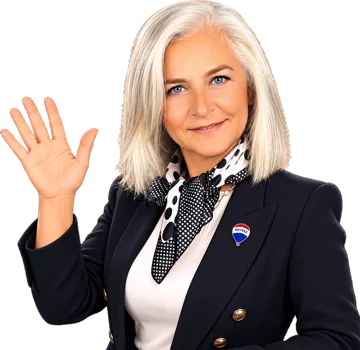
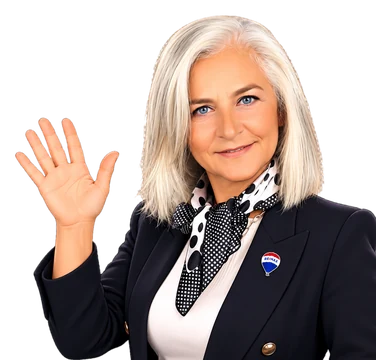
Ofis Takvimi: akıcı ay geçişi, hızlı resimler, eşit resim boyları (#230)
* Ofis Takvimi: aylar arası anında geçiş (önceki/sonraki aylar arkada çekilir), resimler baştan indirilir ve küçüldü, yükleme çubuğu

Claude-Session: https://claude.ai/code/session_014SKq8WkohqfPMp3wdCpcDB

* Ofis Takvimi: Orhan'ın yeni el sallayan resmi, herkesin resmi aynı yüz boyuna göre kesildi

Claude-Session: https://claude.ai/code/session_014SKq8WkohqfPMp3wdCpcDB

* Ofis Takvimi: resimler baş üstü hizasına ve aynı baş boyuna göre kesildi (Orhan büyüdü)

Claude-Session: https://claude.ai/code/session_014SKq8WkohqfPMp3wdCpcDB

---------

diff --git a/takvim.html b/takvim.html
@@ -191,6 +191,9 @@ body{padding-bottom:0}
 .arac .ekle span{font-size:20px!important}
 }
 @media(max-width:420px){header h1{font-size:19px}.sekme button{padding:7px 10px}.ay b{font-size:17px}}
+.yukbar{position:fixed;top:0;left:0;right:0;height:3px;z-index:60;opacity:0;transition:opacity .25s;pointer-events:none;background:linear-gradient(90deg,transparent,var(--mavi),transparent);background-size:40% 100%;background-repeat:no-repeat;animation:kay 1.1s linear infinite}
+.yukbar.on{opacity:1}
+@keyframes kay{from{background-position:-40% 0}to{background-position:140% 0}}
 .yukleniyor{text-align:center;color:var(--dim);padding:30px;font-size:14px}
 </style>
 </head>
@@ -204,6 +207,7 @@ body{padding-bottom:0}
   <button class="btn" id="girBtn">Giriş</button>
   <div class="hata" id="girisHata"></div>
 </div>
+<div class="yukbar" id="yukBar"></div>
 <div class="wrap" id="ana" hidden>
   <header hidden>
     <button class="avatar" id="avatar" title="Hesap">
@@ -276,7 +280,7 @@ const ilkAd = a => String(a||'').split(' ')[0];
 const anahtar = a => String(a||'').toLocaleLowerCase('tr').split(/\s+/)[0];
 
 let S = { gorunum: ls('ot_gorunum')||'ay', ay: (()=>{const d=new Date();return new Date(d.getFullYear(),d.getMonth(),1);})(),
-          secili: bugun(), olaylar: [], aralik:'', broker: false,
+          secili: bugun(), olaylar: [], kapsam: null, broker: false,
           oturum: ls('posta_oturum'), kim: ls('posta_kim'), ad: '' };
 
 /* ---- kim: Doğuş Posta ile aynı oturum (posta_oturum); bir kez girilir ---- */
@@ -318,8 +322,8 @@ $('girBtn').onclick=girisYap;
 $('pin').addEventListener('keydown',e=>{ if(e.key==='Enter') girisYap(); });
 $('cikisBtn').onclick=$('avatar').onclick=()=>{ if(confirm(`${benAd()} olarak girdin. Çıkış yapılsın mı?\n(Doğuş Posta'dan da çıkılır.)`)) cikis(); };
 function cikis(m){
-  ['posta_oturum','posta_kim','posta_hesap','ot_onbellek'].forEach(k=>{ try{ localStorage.removeItem(k); }catch(e){} });
-  S.oturum=''; S.kim=''; S.ad=''; S.broker=false; S.aralik=''; girisGoster(m);
+  ['posta_oturum','posta_kim','posta_hesap','ot_onbellek','ot_depo'].forEach(k=>{ try{ localStorage.removeItem(k); }catch(e){} });
+  S.oturum=''; S.kim=''; S.ad=''; S.broker=false; S.kapsam=null; S.olaylar=[]; girisGoster(m);
 }
 
 /* ---- veri ---- */
@@ -336,27 +340,41 @@ function gorunurAralik(){
   const son=new Date(bas); son.setDate(son.getDate()+41);
   return [ymd(bas), ymd(son)];
 }
-const OB='ot_onbellek'; let YUKLE_NO=0;
-function onbellekAl(k){ try{ const m=JSON.parse(ls(OB)||'{}'); return m[k]||null; }catch(e){ return null; } }
-function onbellekYaz(k,j){ try{ const m=JSON.parse(ls(OB)||'{}'); m[k]={t:Date.now(),olaylar:j.olaylar,broker:!!j.broker,ad:j.ad||''};
-  const ks=Object.keys(m).sort((x,y)=>m[y].t-m[x].t); ks.slice(4).forEach(x=>delete m[x]); ls(OB,JSON.stringify(m)); }catch(e){} }
+// Veri deposu: birkaç ayın etkinlikleri tek yerde, S.kapsam=[bas,son] hangi günleri kapsadığını tutar.
+// Sunucu (Apps Script) 3-5 sn sürüyor: depo telefonda saklanır, açılışta ve ay geçişlerinde anında çizilir,
+// gösterilen ayın öncesi/sonrası arkada çekilir (Umut 18 Eki: "çok bekletiyor", "aylar arası akıcı değil")
+const OB='ot_depo'; let YUKLE_NO=0, YUK=0; const BEKLEYEN={};
+function depoYukle(){ try{ const d=JSON.parse(ls(OB)||'null'); if(d && d.kim===(S.kim||'') && d.kapsam){ S.olaylar=d.olaylar||[]; S.kapsam=d.kapsam; S.broker=!!d.broker; if(d.ad) S.ad=d.ad; } }catch(e){} }
+function depoYaz(){ try{ ls(OB, JSON.stringify({kim:S.kim||'',olaylar:S.olaylar,kapsam:S.kapsam,broker:S.broker,ad:S.ad||''})); }catch(e){} }
+const kapsar=(b,e)=>!!S.kapsam && S.kapsam[0]<=b && S.kapsam[1]>=e;
+function ihtiyac(){ const [b,e]=gorunurAralik(), g=bugun(), s=gunEkle(g,14); return [b<g?b:g, e>s?e:s]; }
+function genis(){ const [b,e]=ihtiyac(); return [gunEkle(b,-63), gunEkle(e,63)]; }
+function yukGoster(d){ YUK=Math.max(0,YUK+d); $('yukBar').classList.toggle('on', YUK>0); }
+const gorunenImza=()=>{ const [b,e]=ihtiyac(); return JSON.stringify(S.olaylar.filter(o=>o.tarih>=b&&o.tarih<=e))+S.broker; };
+function getir(b,e){
+  const k=b+'_'+e; if (BEKLEYEN[k]) return BEKLEYEN[k];
+  yukGoster(1);
+  return BEKLEYEN[k]=api({islem:'liste', bas:b, bit:e}).then(j=>{
+    if (S.oturum && !j.ad){ cikis('Oturumun kapanmış, tekrar gir.'); throw new Error('OTURUM'); }
+    const ort=S.kapsam && !(e<S.kapsam[0] || b>S.kapsam[1]);
+    if (ort){ S.olaylar=S.olaylar.filter(o=>o.tarih<b||o.tarih>e).concat(j.olaylar).sort((x,y)=>x.tarih<y.tarih?-1:x.tarih>y.tarih?1:0);
+      S.kapsam=[b<S.kapsam[0]?b:S.kapsam[0], e>S.kapsam[1]?e:S.kapsam[1]]; }
+    else { S.olaylar=j.olaylar; S.kapsam=[b,e]; }
+    S.broker=!!j.broker; if(j.ad) S.ad=j.ad; depoYaz();
+  }).finally(()=>{ delete BEKLEYEN[k]; yukGoster(-1); });
+}
 async function yukle(zorla){
-  const [b,e]=gorunurAralik(); const ar=b+'_'+e;
-  // bugün/yarın nöbetçisi için bugünü de kapsa
-  const bb = b<=bugun()? b : bugun(), ee = e>=gunEkle(bugun(),14)? e : gunEkle(bugun(),14);
-  if (!zorla && S.aralik===bb+'_'+ee) { ciz(); return; }
-  // Sunucu (Apps Script) birkaç saniye sürüyor: son alınan veriyi hemen göster, arkada tazele (Umut 18 Eki "çok bekletiyor")
-  const istek=YUKLE_NO=(YUKLE_NO||0)+1, anah=(S.kim||'')+'|'+bb+'_'+ee, onb=onbellekAl(anah);
-  if (onb){ S.olaylar=onb.olaylar; S.aralik=bb+'_'+ee; S.broker=!!onb.broker; if(onb.ad) S.ad=onb.ad; benFoto(); ciz(); }
+  const no=++YUKLE_NO, [b,e]=ihtiyac(), [gb,ge]=genis();
+  ciz(); benFoto();                       // elde ne varsa hemen (boşsa boş ızgara)
+  if (!zorla && kapsar(gb,ge)) return;    // önceki/sonraki ay da hazır
+  const once=gorunenImza(), vardi=kapsar(b,e);
   try{
-    const j = await api({islem:'liste', bas:bb, bit:ee});
-    if (S.oturum && !j.ad){ cikis('Oturumun kapanmış, tekrar gir.'); return; }
-    onbellekYaz(anah, j);
-    if (istek!==YUKLE_NO) return; // bu arada başka aya geçildi
-    if (onb && JSON.stringify(onb.olaylar)===JSON.stringify(j.olaylar) && !!onb.broker===!!j.broker) return;
-    S.olaylar=j.olaylar; S.aralik=bb+'_'+ee; S.broker=!!j.broker; if(j.ad) S.ad=j.ad; benFoto();
-    ciz();
-  }catch(err){ if (onb) return; $('icerik').innerHTML=`<div class="bos">Takvim yüklenemedi: ${esc(err.message)}<br><br><button class="btn" onclick="yukle(true)">Tekrar dene</button></div>`; }
+    await getir(gb,ge);
+    if (no===YUKLE_NO && gorunenImza()!==once){ ciz(); benFoto(); }
+  }catch(err){
+    if (err.message==='OTURUM' || vardi || no!==YUKLE_NO) return;
+    $('icerik').innerHTML=`<div class="bos">Takvim yüklenemedi: ${esc(err.message)}<br><br><button class="btn" onclick="yukle(true)">Tekrar dene</button></div>`;
+  }
 }
 
 /* ---- süzgeç ---- */
@@ -387,7 +405,7 @@ function nobetCiz(){
 }
 // Telefonda ilk ekranda bugünün etkinlikleri yazılı dursun (Umut 18 Eki); nöbet üstteki kartta
 function bugunCiz(){
-  if (!S.aralik){ $('bugunKutu').hidden=true; return; }
+  if (!S.kapsam){ $('bugunKutu').hidden=true; return; }
   const g=bugun(), d=gunAl(g), son=gunEkle(g,14);
   const liste=S.olaylar.filter(o=>o.tarih===g && o.tur!=='nobet');
   // Bugün boşsa da ekran boş kalmasın: önümüzdeki 14 günün etkinlikleri kutu kutu (Umut 18 Eki)
@@ -408,13 +426,15 @@ function bugunCiz(){
 }
 // Nöbetçinin dekupe fotoğrafı kutunun sağ altında, yazıların arkasında (Umut 18 Eki); Ofis günlerinde yok
 const NOBET_FIG = {aysegul:1,aysun:1,evsen:1,gamze:1,gizem:1,irem:1,orhan:1,ozlem:1};
-function figUrl(ad){ const u=fotoUrl(ad), id=u && u.split('/').pop().replace('.webp',''); return id && NOBET_FIG[id] ? `assets/ekip/nobet/${id}.webp?v=2` : ''; }
+// Nöbetçi resimleri baştan indirilsin, ızgarada sonradan belirmesin (Umut 18 Eki)
+Object.keys(NOBET_FIG).forEach(id=>{ const i=new Image(); i.src=`assets/ekip/${innerWidth<600?'nobet/omuz':'nobet'}/${id}.webp?v=5`; });
+function figUrl(ad){ const u=fotoUrl(ad), id=u && u.split('/').pop().replace('.webp',''); return id && NOBET_FIG[id] ? `assets/ekip/nobet/${id}.webp?v=5` : ''; }
 function nobetFig(o){
   if (!o || o.tur!=='nobet' || o.nobetci==='Ofis') return '';
   const u=fotoUrl(o.nobetci), id=u && u.split('/').pop().replace('.webp','');
   // Telefonda diğer omuz kesik görsel: el görünür, kişi kutunun sağ kenarına yaslı (Umut 18 Eki)
   const yol=innerWidth<600?'nobet/omuz':'nobet';
-  return id && NOBET_FIG[id] ? `<img class="nfig" src="assets/ekip/${yol}/${id}.webp?v=2" alt="" loading="lazy">` : '';
+  return id && NOBET_FIG[id] ? `<img class="nfig" src="assets/ekip/${yol}/${id}.webp?v=5" alt="">` : '';
 }
 // Telefonda ay ızgarası ekranın kalanını kaplar, kutular uzun (Umut 18 Eki, seçenek A)
 function izgaraBoyut(){
@@ -607,8 +627,8 @@ if (HASH){ const d=gunAl(HASH[2]); S.ay=new Date(d.getFullYear(),d.getMonth(),1)
 function hashAc(){ if (HASH && S.olaylar.length) detay(HASH[1], HASH[2]); }
 (async function basla(){
   if (!S.oturum){ girisGoster(); return; }
-  $('ana').hidden=false; benFoto();
-  await yukle(true); hashAc();
+  $('ana').hidden=false; depoYukle(); const vardi=!!S.kapsam; if (vardi) hashAc();
+  await yukle(true); if (!vardi) hashAc();
 })();
 </script>
 <script src="assets/bildirim.js"></script>
